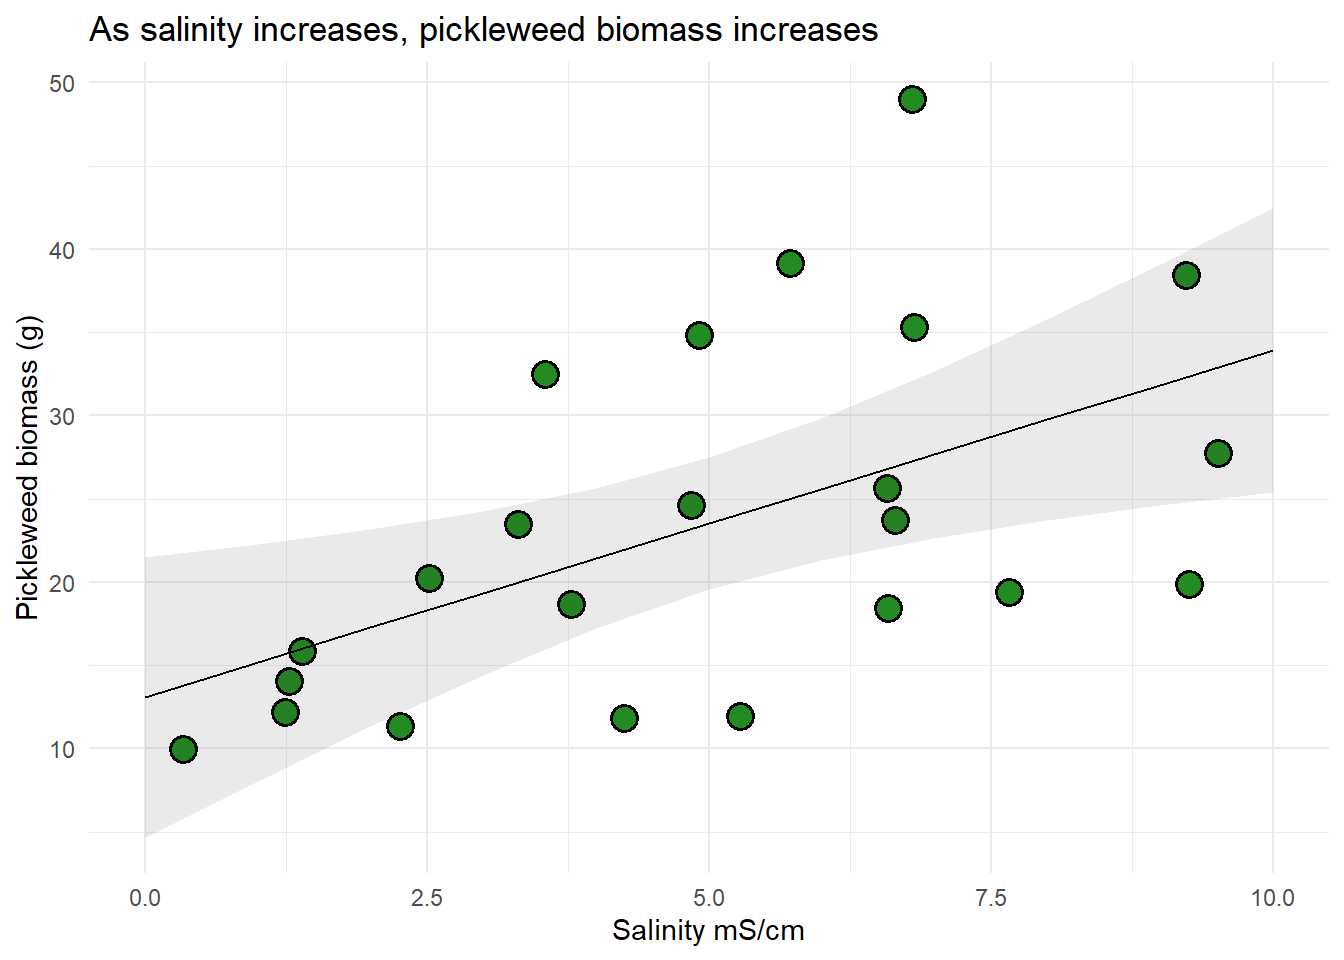
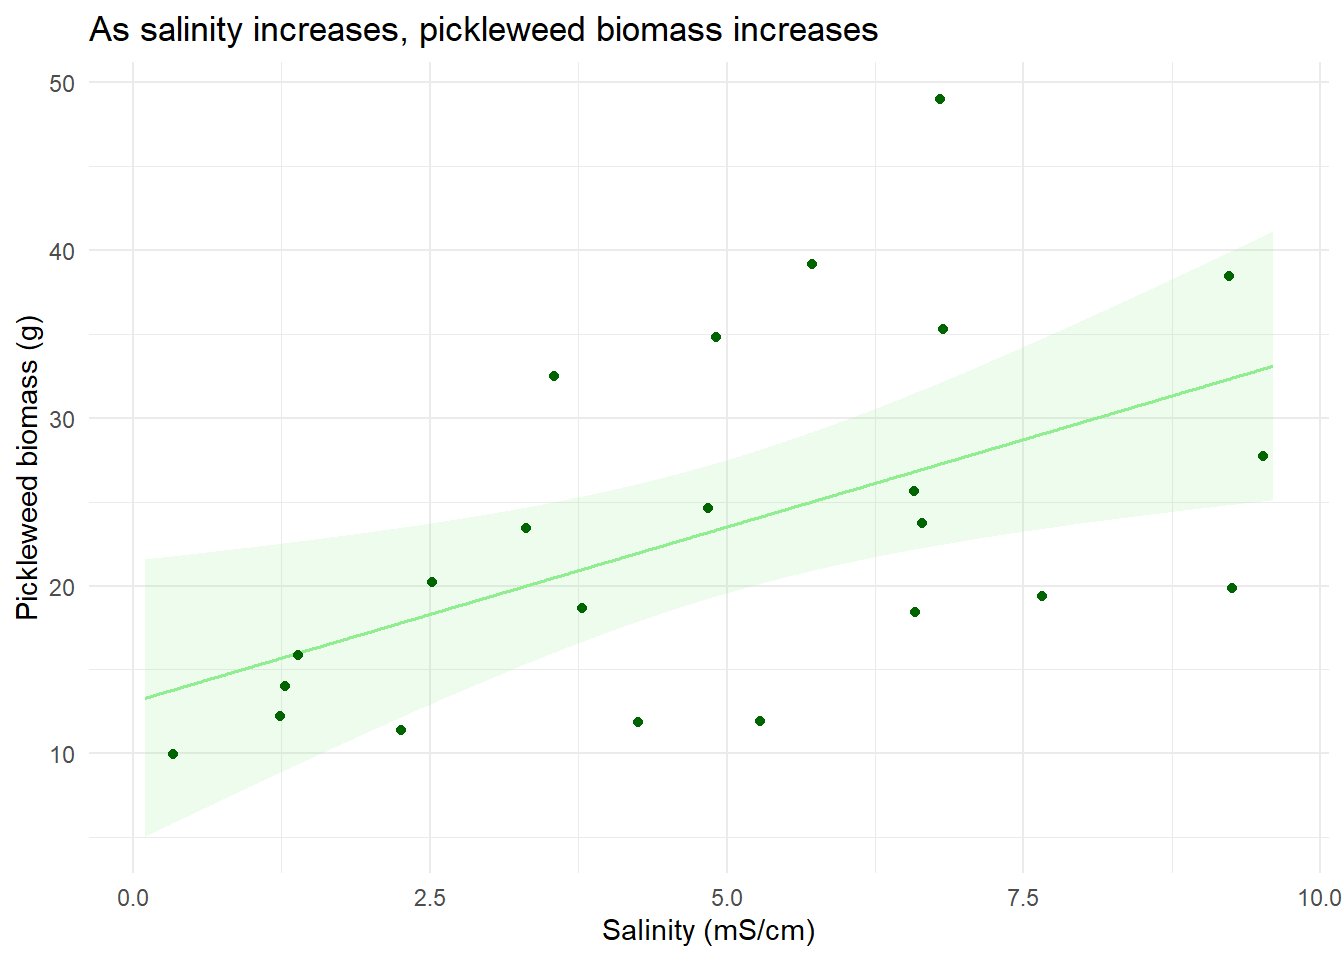
adjusted size of images

diff --git a/code/03_homework_193DS.html b/code/03_homework_193DS.html
@@ -159,7 +159,7 @@ window.Quarto = {
 <h1>Part 2 Problems</h1>
 <section id="problem-1.-slough-soil-salinity" class="level2">
 <h2 class="anchored" data-anchor-id="problem-1.-slough-soil-salinity">Problem 1. Slough soil salinity</h2>
-<p>###a. An appropriate test Both a Spearman’s correlation and a Pearson’s correlation test could determine the relationship strength between salinity, a continuous predictor variable, and California pickleweed biomass, a continuous response variable. Pearson’s correlation is a parametric test, meaning is assumes normality and uses the actual measurements of continuous data to show the strength and direction of a linear relationship. Meanwhile, Spearman’s correlation uses ranks instead of the actual values to determine a monotonic relationship between variables, making it more suitable for non-normal distributions.</p>
+<p>###a. An appropriate test Both a simple linear regression and a Pearson’s correlation test could determine the strength of relationship between salinity, a continuous predictor variable, and California pickleweed biomass, a continuous response variable. Pearson’s correlation is a parametric test, meaning is assumes normality and uses the actual measurements of continuous data to show the strength and direction of a linear relationship. Meanwhile, Spearman’s correlation uses ranks instead of the actual values to determine a monotonic relationship between variables, making it more suitable for non-normal distributions.</p>
 <section id="b.-creae-a-visualization" class="level3">
 <h3 class="anchored" data-anchor-id="b.-creae-a-visualization">b. Creae a visualization</h3>
 <div class="cell">
@@ -196,30 +196,18 @@ F-statistic: 8.398 on 1 and 21 DF,  p-value: 0.008605</code></pre>
 </figure>
 </div>
 </div>
-<div class="code-copy-outer-scaffold"><div class="sourceCode cell-code" id="cb5"><pre class="sourceCode r code-with-copy"><code class="sourceCode r"><span id="cb5-1"><a href="#cb5-1" aria-hidden="true" tabindex="-1"></a>salinity_preds <span class="ot">&lt;-</span> <span class="fu">ggpredict</span>(</span>
-<span id="cb5-2"><a href="#cb5-2" aria-hidden="true" tabindex="-1"></a>  salinity_lm,</span>
-<span id="cb5-3"><a href="#cb5-3" aria-hidden="true" tabindex="-1"></a>  <span class="at">terms =</span> <span class="st">"salinity_mS_cm"</span></span>
-<span id="cb5-4"><a href="#cb5-4" aria-hidden="true" tabindex="-1"></a>)</span>
-<span id="cb5-5"><a href="#cb5-5" aria-hidden="true" tabindex="-1"></a><span class="fu">ggplot</span>(<span class="at">data =</span> salinity,</span>
-<span id="cb5-6"><a href="#cb5-6" aria-hidden="true" tabindex="-1"></a>        <span class="fu">aes</span>(<span class="at">x =</span> salinity_mS_cm,</span>
-<span id="cb5-7"><a href="#cb5-7" aria-hidden="true" tabindex="-1"></a>            <span class="at">y =</span> pickleweed)) <span class="sc">+</span></span>
-<span id="cb5-8"><a href="#cb5-8" aria-hidden="true" tabindex="-1"></a>  <span class="fu">geom_point</span>(<span class="at">size =</span> <span class="dv">4</span>,</span>
-<span id="cb5-9"><a href="#cb5-9" aria-hidden="true" tabindex="-1"></a>             <span class="at">stroke =</span> <span class="dv">1</span>,</span>
-<span id="cb5-10"><a href="#cb5-10" aria-hidden="true" tabindex="-1"></a>             <span class="at">fill =</span> <span class="st">"forestgreen"</span>,</span>
-<span id="cb5-11"><a href="#cb5-11" aria-hidden="true" tabindex="-1"></a>             <span class="at">shape =</span> <span class="dv">21</span>) <span class="sc">+</span></span>
-<span id="cb5-12"><a href="#cb5-12" aria-hidden="true" tabindex="-1"></a>  <span class="fu">geom_ribbon</span>(<span class="at">data =</span> salinity_preds,</span>
-<span id="cb5-13"><a href="#cb5-13" aria-hidden="true" tabindex="-1"></a>              <span class="fu">aes</span>(<span class="at">x =</span> x,</span>
-<span id="cb5-14"><a href="#cb5-14" aria-hidden="true" tabindex="-1"></a>                  <span class="at">y =</span> predicted,</span>
-<span id="cb5-15"><a href="#cb5-15" aria-hidden="true" tabindex="-1"></a>                  <span class="at">ymin =</span> conf.low,</span>
-<span id="cb5-16"><a href="#cb5-16" aria-hidden="true" tabindex="-1"></a>                  <span class="at">ymax =</span> conf.high),</span>
-<span id="cb5-17"><a href="#cb5-17" aria-hidden="true" tabindex="-1"></a>              <span class="at">alpha =</span> <span class="fl">0.1</span>) <span class="sc">+</span></span>
-<span id="cb5-18"><a href="#cb5-18" aria-hidden="true" tabindex="-1"></a>  <span class="fu">geom_line</span>(<span class="at">data =</span> salinity_preds,</span>
-<span id="cb5-19"><a href="#cb5-19" aria-hidden="true" tabindex="-1"></a>            <span class="fu">aes</span>(<span class="at">x =</span> x,</span>
-<span id="cb5-20"><a href="#cb5-20" aria-hidden="true" tabindex="-1"></a>                <span class="at">y =</span> predicted)) <span class="sc">+</span></span>
-<span id="cb5-21"><a href="#cb5-21" aria-hidden="true" tabindex="-1"></a>  <span class="fu">labs</span>(<span class="at">x =</span> <span class="st">"Salinity mS/cm"</span>,</span>
-<span id="cb5-22"><a href="#cb5-22" aria-hidden="true" tabindex="-1"></a>       <span class="at">y =</span> <span class="st">"Pickleweed biomass (g)"</span>,</span>
-<span id="cb5-23"><a href="#cb5-23" aria-hidden="true" tabindex="-1"></a>       <span class="at">title =</span> <span class="st">"As salinity increases, pickleweed biomass increases"</span>) <span class="sc">+</span></span>
-<span id="cb5-24"><a href="#cb5-24" aria-hidden="true" tabindex="-1"></a>    <span class="fu">theme_minimal</span>()</span></code></pre></div><button title="Copy to Clipboard" class="code-copy-button"><i class="bi"></i></button></div>
+<div class="code-copy-outer-scaffold"><div class="sourceCode cell-code" id="cb5"><pre class="sourceCode r code-with-copy"><code class="sourceCode r"><span id="cb5-1"><a href="#cb5-1" aria-hidden="true" tabindex="-1"></a><span class="fu">ggpredict</span>(salinity_lm,</span>
+<span id="cb5-2"><a href="#cb5-2" aria-hidden="true" tabindex="-1"></a>          <span class="at">terms =</span> <span class="st">"salinity_mS_cm [0.1:9.6 by = 0.01]"</span>) <span class="sc">|&gt;</span></span>
+<span id="cb5-3"><a href="#cb5-3" aria-hidden="true" tabindex="-1"></a>  <span class="fu">plot</span>(<span class="at">show_data =</span> <span class="cn">FALSE</span>,</span>
+<span id="cb5-4"><a href="#cb5-4" aria-hidden="true" tabindex="-1"></a>       <span class="at">color =</span> <span class="st">"lightgreen"</span>) <span class="sc">+</span></span>
+<span id="cb5-5"><a href="#cb5-5" aria-hidden="true" tabindex="-1"></a>  <span class="fu">geom_point</span>(<span class="at">data =</span> salinity,</span>
+<span id="cb5-6"><a href="#cb5-6" aria-hidden="true" tabindex="-1"></a>             <span class="fu">aes</span>(<span class="at">x =</span> salinity_mS_cm,</span>
+<span id="cb5-7"><a href="#cb5-7" aria-hidden="true" tabindex="-1"></a>                 <span class="at">y =</span> pickleweed),</span>
+<span id="cb5-8"><a href="#cb5-8" aria-hidden="true" tabindex="-1"></a>             <span class="at">color =</span> <span class="st">"darkgreen"</span>) <span class="sc">+</span></span>
+<span id="cb5-9"><a href="#cb5-9" aria-hidden="true" tabindex="-1"></a>  <span class="fu">theme_minimal</span>() <span class="sc">+</span></span>
+<span id="cb5-10"><a href="#cb5-10" aria-hidden="true" tabindex="-1"></a>  <span class="fu">labs</span>(<span class="at">x =</span> <span class="st">"Salinity (mS/cm)"</span>,</span>
+<span id="cb5-11"><a href="#cb5-11" aria-hidden="true" tabindex="-1"></a>       <span class="at">y =</span> <span class="st">"Pickleweed biomass (g)"</span>,</span>
+<span id="cb5-12"><a href="#cb5-12" aria-hidden="true" tabindex="-1"></a>       <span class="at">title =</span> <span class="st">"As salinity increases, pickleweed biomass increases"</span>)</span></code></pre></div><button title="Copy to Clipboard" class="code-copy-button"><i class="bi"></i></button></div>
 <div class="cell-output-display">
 <div>
 <figure class="figure">
@@ -246,8 +234,8 @@ sample estimates:
 0.5344778 </code></pre>
 </div>
 </div>
-<section id="check-assumptions" class="level4">
-<h4 class="anchored" data-anchor-id="check-assumptions">Check assumptions</h4>
+<section id="check-your-assumptions" class="level4">
+<h4 class="anchored" data-anchor-id="check-your-assumptions">Check your assumptions</h4>
 <div class="cell">
 <div class="code-copy-outer-scaffold"><div class="sourceCode cell-code" id="cb8"><pre class="sourceCode r code-with-copy"><code class="sourceCode r"><span id="cb8-1"><a href="#cb8-1" aria-hidden="true" tabindex="-1"></a><span class="fu">par</span>(<span class="at">mfrow =</span> <span class="fu">c</span>(<span class="dv">2</span>, <span class="dv">2</span>))</span>
 <span id="cb8-2"><a href="#cb8-2" aria-hidden="true" tabindex="-1"></a><span class="fu">plot</span>(salinity_lm)</span></code></pre></div><button title="Copy to Clipboard" class="code-copy-button"><i class="bi"></i></button></div>
@@ -363,19 +351,36 @@ sample estimates:
 </section>
 <section id="b.-create-a-sketch-on-paper-of-your-idea." class="level3">
 <h3 class="anchored" data-anchor-id="b.-create-a-sketch-on-paper-of-your-idea.">b. Create a sketch (on paper) of your idea.</h3>
-</section>
-<section id="b." class="level3">
-<h3 class="anchored" data-anchor-id="b.">b.</h3>
 <div class="cell">
-<div class="code-copy-outer-scaffold"><div class="sourceCode cell-code" id="cb13"><pre class="sourceCode r code-with-copy"><code class="sourceCode r"><span id="cb13-1"><a href="#cb13-1" aria-hidden="true" tabindex="-1"></a>knitr<span class="sc">::</span><span class="fu">include_graphics</span>(<span class="st">"data_vis_sketch.jpeg"</span>)</span></code></pre></div><button title="Copy to Clipboard" class="code-copy-button"><i class="bi"></i></button></div>
+<div class="code-copy-outer-scaffold"><div class="sourceCode cell-code" id="cb13"><pre class="sourceCode r code-with-copy"><code class="sourceCode r"><span id="cb13-1"><a href="#cb13-1" aria-hidden="true" tabindex="-1"></a>knitr<span class="sc">::</span><span class="fu">include_graphics</span>(<span class="fu">here</span>(<span class="st">"code"</span>, <span class="st">"data_vis_sketch.jpeg"</span>)) <span class="co">#insert image of sketch</span></span></code></pre></div><button title="Copy to Clipboard" class="code-copy-button"><i class="bi"></i></button></div>
 <div class="cell-output-display">
 <div>
 <figure class="figure">
-<p><img src="data_vis_sketch.jpeg" class="img-fluid figure-img"></p>
+<p><img src="data_vis_sketch.jpeg" class="img-fluid figure-img" style="width:50.0%"></p>
 </figure>
 </div>
 </div>
 </div>
+</section>
+<section id="c.-create-a-draft-of-your-visualization." class="level3">
+<h3 class="anchored" data-anchor-id="c.-create-a-draft-of-your-visualization.">c.&nbsp;Create a draft of your visualization.</h3>
+<div class="cell">
+<div class="code-copy-outer-scaffold"><div class="sourceCode cell-code" id="cb14"><pre class="sourceCode r code-with-copy"><code class="sourceCode r"><span id="cb14-1"><a href="#cb14-1" aria-hidden="true" tabindex="-1"></a>knitr<span class="sc">::</span><span class="fu">include_graphics</span>(<span class="fu">here</span>(<span class="st">"code"</span>, <span class="st">"data_vis_draft.jpeg"</span>)) <span class="co">#insert image of sketch</span></span></code></pre></div><button title="Copy to Clipboard" class="code-copy-button"><i class="bi"></i></button></div>
+<div class="cell-output-display">
+<div>
+<figure class="figure">
+<p><img src="data_vis_draft.jpeg" class="img-fluid figure-img" style="width:50.0%"></p>
+</figure>
+</div>
+</div>
+</div>
+</section>
+<section id="d.-write-an-artistic-statement" class="level3">
+<h3 class="anchored" data-anchor-id="d.-write-an-artistic-statement">d.&nbsp;Write an artistic statement</h3>
+<p>My data visualization showcases my reading habits by painting the fore-edge of a book different colors based on the different genres. In other words, each stripe on the book represents the genre and time spent reading each genre.</p>
+<p>I was influenced heavily by the warming stripes visualization shown in class that depicts the average temperature of each year since 1850. I’ve also seen very detailed fore-edge painting of a book which inspired me to combine the two ideas into one.</p>
+<p>The work will be created using acrylic paints on a physical book.</p>
+<p>To start, I created a ratio of minutes read to physical pages and translated.</p>
 </section>
 </section>
 
